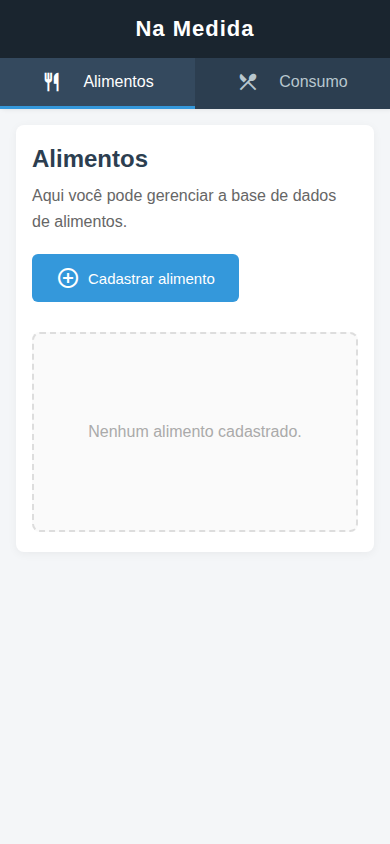
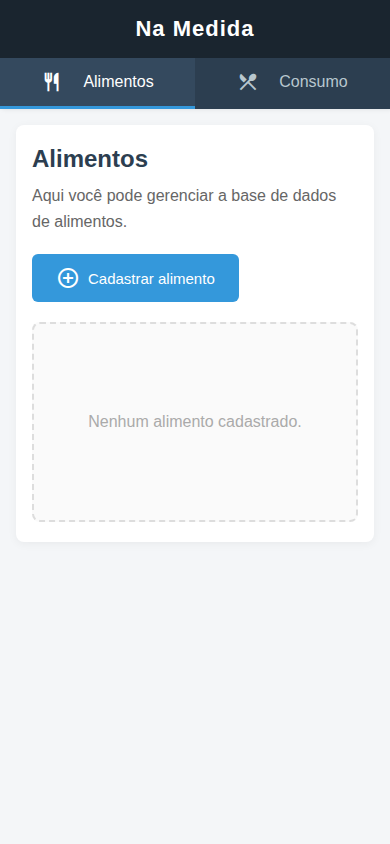
feat: ajusta estilos e margens na página de alimentos

diff --git a/fonte/style.css b/fonte/style.css
@@ -144,6 +144,7 @@ p {
     color: #fff;
     border: none;
     padding: 12px 24px;
+    margin-bottom: 20px;
     border-radius: 6px;
     font-size: 15px;
     font-weight: 500;
@@ -243,6 +244,10 @@ p {
     display: flex;
     flex-direction: column;
     gap: 14px;
+}
+
+.lista-alimentos .content-placeholder {
+    margin-top: 0;
 }
 
 .card-alimento {
